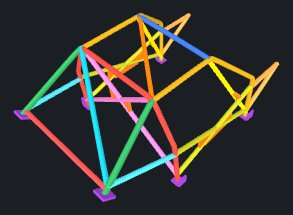
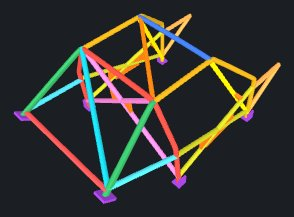
Library: template thumbnails rebuilt for the new foot plate folds

diff --git a/template-thumbs.js b/template-thumbs.js
@@ -3,70 +3,70 @@
 window.TEMPLATE_MODEL_THUMBS = {
  "half-rollcage": {
   "src": "images/templates/model-3d/half-rollcage.jpg",
-  "key": "563e09df"
+  "key": "83364c62"
  },
  "rally-cage-double-v": {
   "src": "images/templates/model-3d/rally-cage-double-v.jpg",
-  "key": "bf027c87"
+  "key": "8fb0b8ac"
  },
  "worst-cage": {
   "src": "images/templates/model-3d/worst-cage.jpg",
-  "key": "640b83a9"
+  "key": "a4ecbf7a"
  },
  "subaru-gc-broken-motorsports": {
   "src": "images/templates/model-3d/subaru-gc-broken-motorsports.jpg",
-  "key": "c5c8290d"
+  "key": "54a64adc"
  },
  "subaru-gd-broken-motorsports": {
   "src": "images/templates/model-3d/subaru-gd-broken-motorsports.jpg",
-  "key": "f4dd7d73"
+  "key": "75a74862"
  },
  "subaru-vab-custom-cages": {
   "src": "images/templates/model-3d/subaru-vab-custom-cages.jpg",
-  "key": "a786c224"
+  "key": "5fbb77a9"
  },
  "ford-fiesta-mk6-custom-cages": {
   "src": "images/templates/model-3d/ford-fiesta-mk6-custom-cages.jpg",
-  "key": "604c7bb1"
+  "key": "4675246c"
  },
  "mazda-mx5-cagekits": {
   "src": "images/templates/model-3d/mazda-mx5-cagekits.jpg",
-  "key": "84ac696b"
+  "key": "2d88adc6"
  },
  "datsun-240z-cagekits": {
   "src": "images/templates/model-3d/datsun-240z-cagekits.jpg",
-  "key": "f14698d0"
+  "key": "c213f3c3"
  },
  "bmw-e92-cagekits": {
   "src": "images/templates/model-3d/bmw-e92-cagekits.jpg",
-  "key": "10ecff03"
+  "key": "75b5332a"
  },
  "porsche-gt3-cup": {
   "src": "images/templates/model-3d/porsche-gt3-cup.jpg",
-  "key": "20113d19"
+  "key": "a469cae6"
  },
  "audi-rs4-rally": {
   "src": "images/templates/model-3d/audi-rs4-rally.jpg",
-  "key": "b27a3faf"
+  "key": "c7f95536"
  },
  "brz-rally-9hio": {
   "src": "images/templates/model-3d/brz-rally-9hio.jpg",
-  "key": "2e63541b"
+  "key": "42b8f886"
  },
  "subaru-sti-hillclimb-9hio": {
   "src": "images/templates/model-3d/subaru-sti-hillclimb-9hio.jpg",
-  "key": "69362c31"
+  "key": "8b2f8c42"
  },
  "bmw-road-racing-9hio": {
   "src": "images/templates/model-3d/bmw-road-racing-9hio.jpg",
-  "key": "1d606a41"
+  "key": "edf27f02"
  },
  "honda-fit-rally-9hio": {
   "src": "images/templates/model-3d/honda-fit-rally-9hio.jpg",
-  "key": "b24a0f7a"
+  "key": "efbe6c87"
  },
  "mustang-road-racing-9hio": {
   "src": "images/templates/model-3d/mustang-road-racing-9hio.jpg",
-  "key": "2cb2592f"
+  "key": "c20df9a6"
  }
 };

diff --git a/app.js b/app.js
@@ -2758,7 +2758,7 @@
   const templateThumbCache = {};
   // Bump when the 3D model's look changes (parts, colors, lighting), so the
   // pre-rendered thumbnails count as stale until they're rebuilt.
-  const TEMPLATE_THUMB_REV = 1;
+  const TEMPLATE_THUMB_REV = 2;
   // What a template's thumbnail was drawn from: a hash of its design.
   function templateThumbKey(t) {
     const s = TEMPLATE_THUMB_REV + JSON.stringify([t.vehicle, t.pathId, t.answers]);

diff --git a/index.html b/index.html
@@ -110,8 +110,8 @@
 <script src="rules-data.js?v=142"></script>
 <script src="pdf_report.js?v=8"></script>
 <script src="templates.js?v=75"></script>
-<script src="template-thumbs.js?v=1"></script>
+<script src="template-thumbs.js?v=2"></script>
 <script src="photo-capture.js?v=4"></script>
-<script src="app.js?v=425"></script>
+<script src="app.js?v=426"></script>
 </body>
 </html>

diff --git a/version.js b/version.js
@@ -3,4 +3,4 @@
 // deployment number, like PassTech's BUILD_DATE (src/lib/version.ts). Set on
 // every commit by tools/bump-version.mjs (the pre-commit hook that
 // tools/install-hooks.mjs installs) -- not by hand.
-window.BUILD_NUMBER = "2026/10/29-4";
+window.BUILD_NUMBER = "2026/10/29-5";
